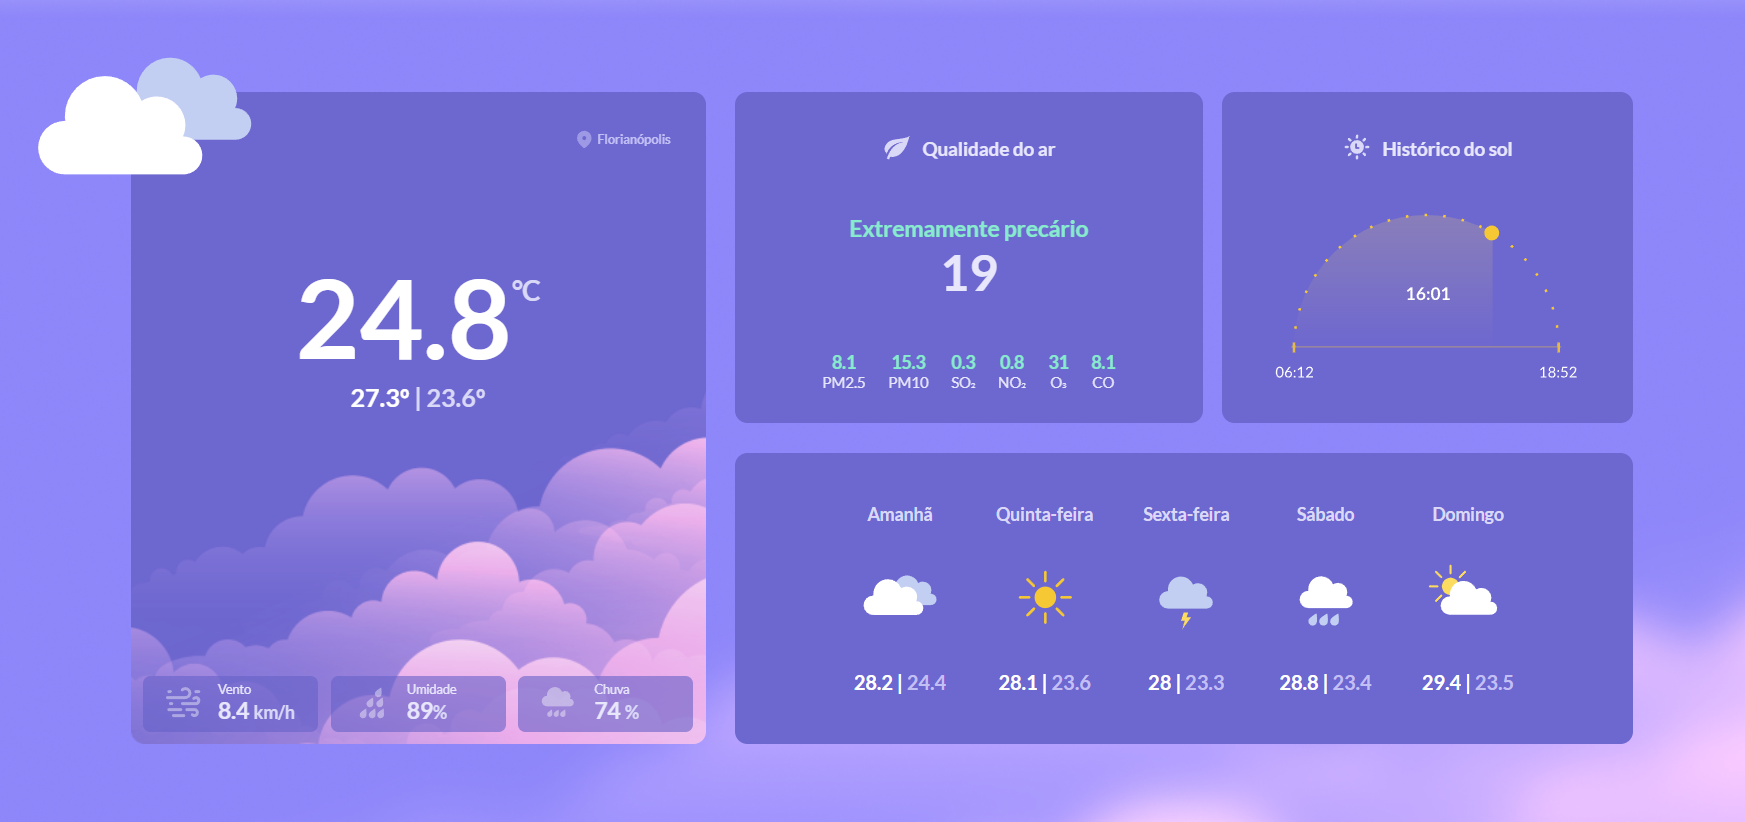
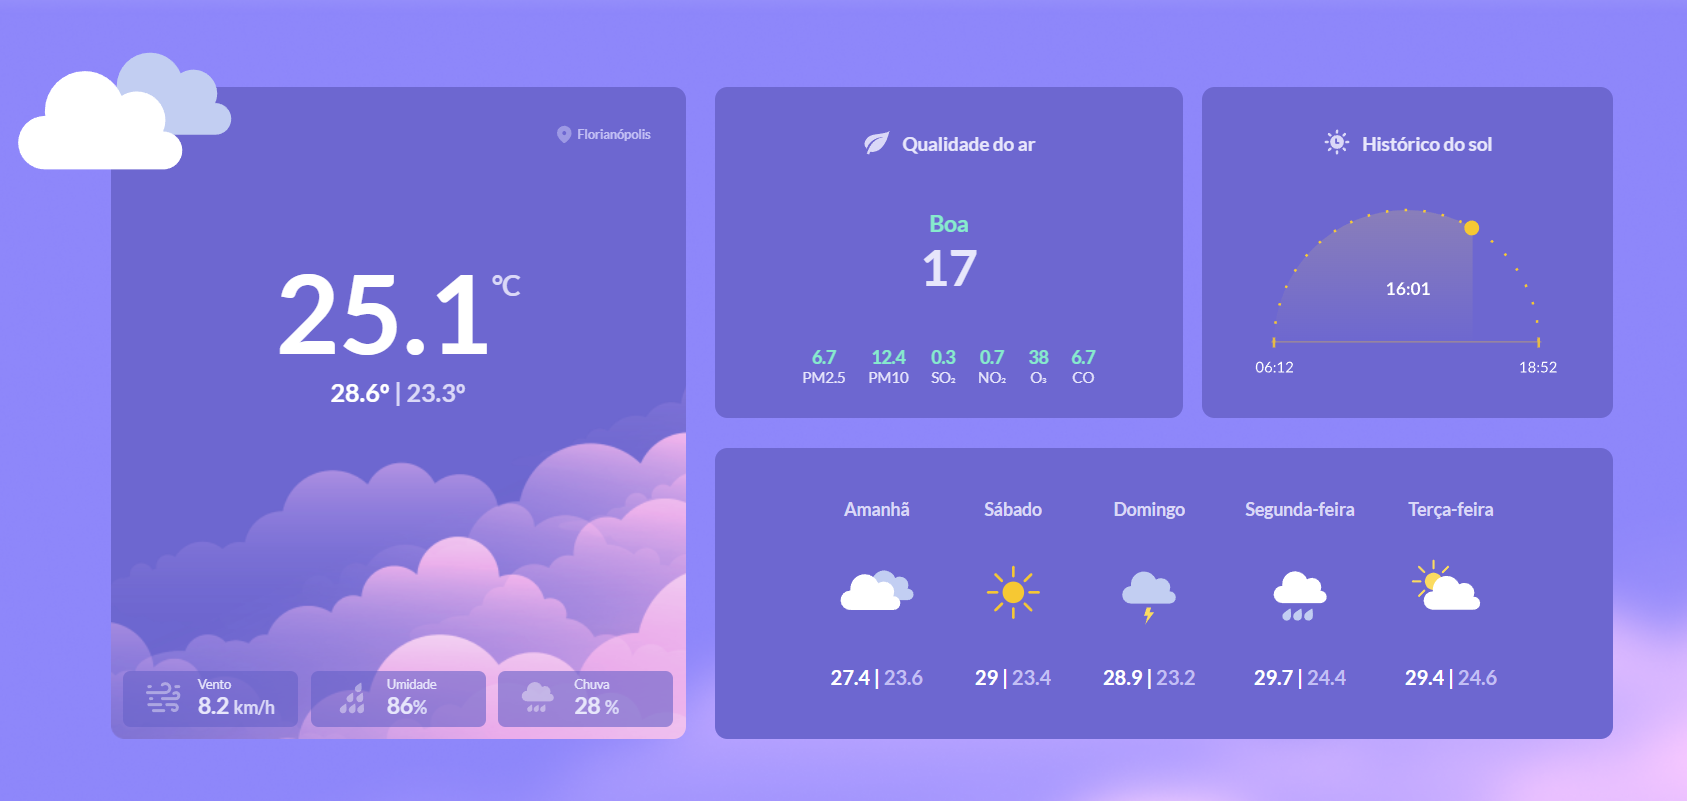
Fix the text from air quality and update readme

diff --git a/10. Weather-Page/src/components/BoxAir/index.jsx b/10. Weather-Page/src/components/BoxAir/index.jsx
@@ -28,31 +28,15 @@ function BoxAir(props) {
   const parameterIndexAir = (airInfo?.hourly?.time)?.indexOf(props.currentDate)
 
   const airQuality = airInfo.hourly.european_aqi[parameterIndexAir]
-  let airQualityText = ""
-  switch (airQuality) {
-    case (airQuality <= 20 ):
-      airQualityText = "Boa"
-      break;
-    case (airQuality <= 40):
-      airQualityText = "Razoável"
-      break;
-    case (airQuality <= 60):
-      airQualityText = "Moderado"
-      break;
-    case (airQuality <= 80 ):
-      airQualityText = "Ruim"
-      break;
-    case (airQuality <= 100):
-      airQualityText = "Muito ruim"
-      break;
-    default:
-      airQualityText = "Extremamente precário"
-      break;
+
+  const checkingQuality = (value) => {
+    if (value <= 20 ) return "Boa"
+    if (value <= 40) return "Razoável"
+    if (value <= 60) return "Moderado"
+    if (value <= 80 ) return "Ruim"
+    if (value <= 100) return "Muito ruim"
+    return "Extremamente precário"
   }
-
-  console.log(parameterIndexAir)
-  console.log(airQualityText)
-
 
   return(
     <div className="box-air box flex">
@@ -63,7 +47,7 @@ function BoxAir(props) {
         <h2>Qualidade do ar</h2>
       </div>
       <div className="middle">
-        <p>{airQualityText}</p>
+        <p>{checkingQuality(airQuality)}</p>
         <h1>{airInfo?.hourly?.european_aqi[parameterIndexAir]}</h1>
       </div>
       <div className="footer">
